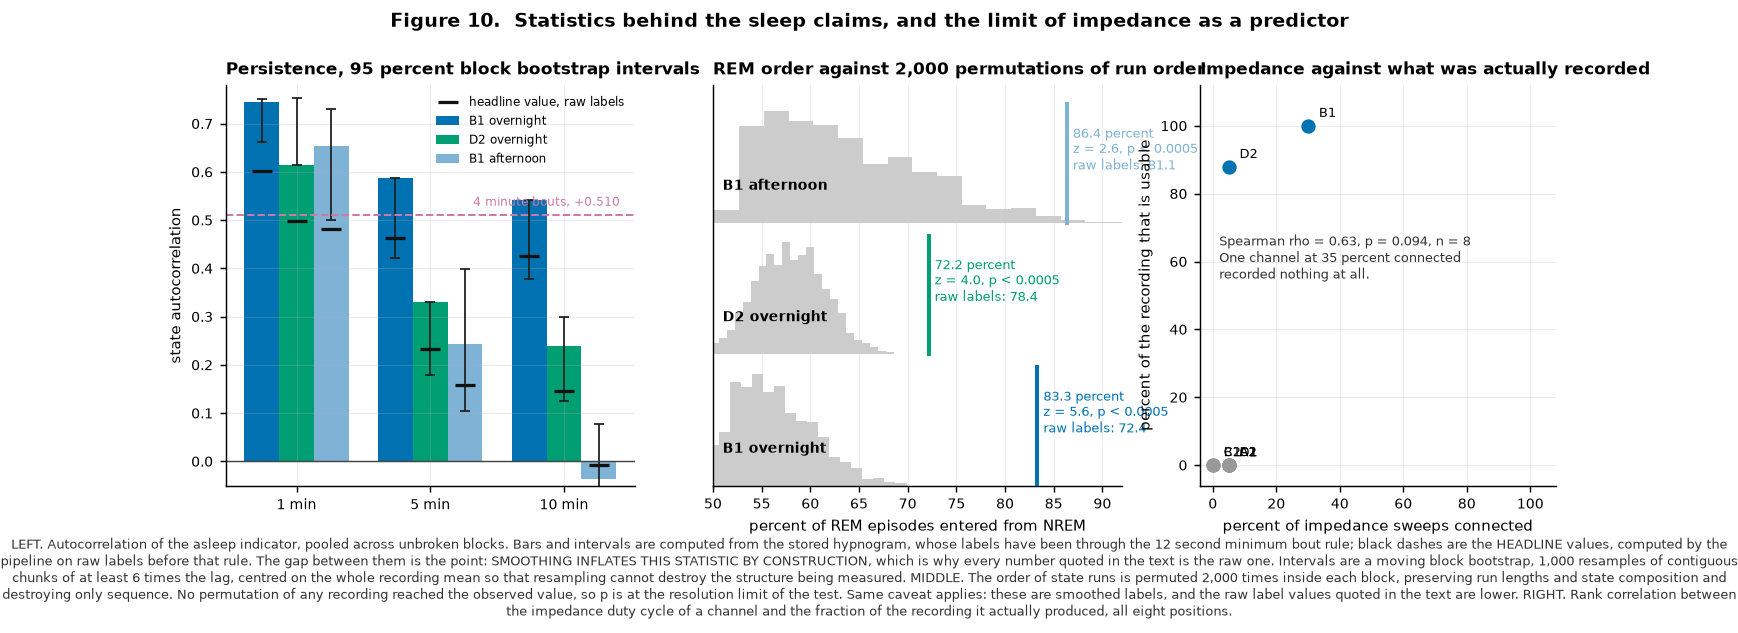
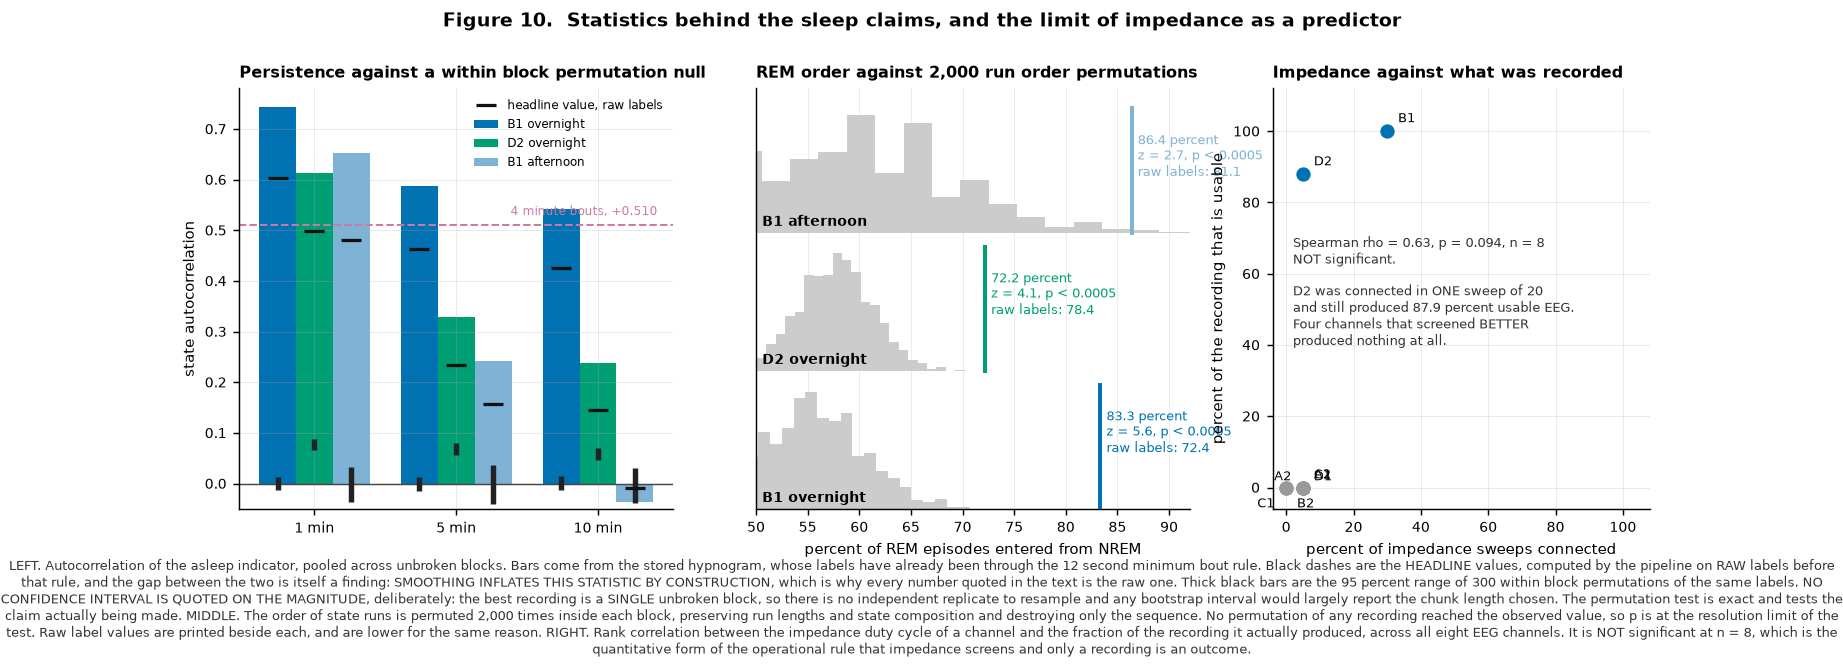
auto backup: 2026-08-09 00:23:22
Affected files:
05-experiments/attachments/2026-08-08-fig10-sleep-statistics.png
05-experiments/attachments/2026-08-08-fig2-fleet-outcome.png
05-experiments/attachments/2026-08-08-fig9-hardware-statistics.png
05-experiments/completed/2026-08-08-full-update-for-professor.md
05-experiments/completed/2026-08-08-professor-update-short.md
_INDEX.md

diff --git a/_INDEX.md b/_INDEX.md
@@ -133,7 +133,7 @@ Production IPs, usernames, paths, and settings.
 - ⭐⭐⭐ [[07-decisions/2026-08-07-rig-specification-and-analysis-method|2026-08-07 — THE RIG SPECIFICATION AND THE ANALYSIS METHOD]] — **THE PAGE TO ARGUE FROM.** Established claims with evidence-strength ratings, how the rig should be built, how the data must be analysed, what may not be claimed. ⚠ **Carries a SCOPE BANNER: the cohort was replaced the same evening**, so the channel map (§2.2) and floor-control list (§3.1) are cohort-specific and already updated for the ECG cohort. The principles in Parts 1 and 3 are unaffected.
 - ⭐⭐⭐ [[05-experiments/active/2026-08-07-staging-preregistration|2026-08-07 — THREE SCOREABLE RECORDINGS, AND THE CIRCADIAN CHECK PASSED]] — **B1 23.66 h in ONE block, r@1min 0.603; D2 23.28 h, r@1min 0.499; both 5/5 physiology, REM-from-NREM 73.9% and 79.5%.** ⭐ **Asleep in the light phase: D2 70.3%, B1 82.1%, against a literature ~70%** — external validation, since nothing in the pipeline knows the clock. 🔴 The pre-registered acclimatisation confound **did not materialise** (B1 slept MORE, not less), recorded rather than dropped.
 - ⭐⭐⭐ [[05-experiments/completed/2026-08-07-overnight-recording-two-animals-work|2026-08-07 — TWO ANIMALS WORK NOW, AND THE TETHER IS THE FIX]] — **START HERE, newest.** 23.66 h, a full light/dark cycle: **B1 99.6% usable with an unbroken 3.6 h block, D2 86.5%**. 🔴 **RETRACTS the 2026-08-06 "arm C harmed D2"** — the swap took D2's EEG from **0.0% to 87.9%** usable, hum 917 → 133 µV, slope −0.38 → **−2.05**. The 40-sweep block had caught one long open state. ⭐ **D2 was tethered at day 8, so LONG RECOVERY IS NOT REQUIRED — the tether chain is sufficient**, and the cohort is recoverable **without new surgery**. 🔑 **Impedance blocks SCREEN; only a multi-hour recording is an OUTCOME** — always state a block's duration.
-- 📄⭐⭐⭐ [[05-experiments/completed/2026-08-08-professor-update-short|2026-08-08 — EEG RIG UPDATE, THE TWO PAGE HANDOUT]] — **THIS IS THE ONE TO SEND.** Crucial points only, **8 figures**: impedance trajectories of all 8 positions · fleet outcome · **real signal traces raw vs cleaned vs auto scaled, with the processing written on the figure** · spectra + the hum/slope discriminator · hypnograms across a full light/dark cycle · persistence + REM order nulls · **the Otsu ±25% sweep that breaks the circadian claim** · scoreable hours before/after the tether change. Figures in `05-experiments/attachments/2026-08-08-fig*.png`, rebuilt by `eeg-emg-analysis/qc/figures_2026-08-08/`.
+- 📄⭐⭐⭐ [[05-experiments/completed/2026-08-08-professor-update-short|2026-08-08 — EEG RIG UPDATE, THE TWO PAGE HANDOUT]] — **THIS IS THE ONE TO SEND.** Crucial points only, **10 figures**: impedance trajectories of all 8 positions · fleet outcome · **real signal traces raw vs cleaned vs auto scaled, with the processing written on the figure** · spectra + the hum/slope discriminator · hypnograms across a full light/dark cycle · persistence + REM order nulls · **the Otsu ±25% sweep that breaks the circadian claim** · scoreable hours before/after the tether change · **fig 9 = the STATISTICS behind the hardware claims** (every channel vs 2,240 wire-free readings, Fisher exact + Jeffreys CIs; only 4 of 16 beat an unconnected input) · **fig 10 = the statistics behind the sleep claims** (permutation nulls, and **Spearman impedance vs yield rho 0.63 p 0.094, NOT significant at n=8**). Figures in `05-experiments/attachments/2026-08-08-fig*.png`, rebuilt by `eeg-emg-analysis/qc/figures_2026-08-08/`.
 - 📄 [[05-experiments/completed/2026-08-08-full-update-for-professor|2026-08-08 — THE TEST MICE, START TO FINISH: THE LONG WORKING RECORD]] — **the appendix behind the handout, not for sending.** Part 0 is paste-ready with no dashes. Part 1 is the whole narrative in the order we learned it (mains hum → the retracted clipping artefact → the no-wire control → **the channel map was wrong all along** → the persistence bug → movement-dependent contact → the 22% false-positive pass mark → **filtering manufactures 69 µV of fake EEG** → the retracted "arm C harmed D2" → the 23.66 h recording that worked). Part 2 is the analysis, the council review, and the **±25% Otsu sweep that damaged the circadian claim**. **Part 1b follows B1 and D2 INDIVIDUALLY, sweep by sweep, from their first connection on 30 July** — including the fact that **B1 is two different animals** (the original was sacrificed 5 Aug, detached skull electrode) and D2's full 0.660 → 9.200 → recovered → 87.9% arc. **Parts 1c and 1d cover the OTHER SIX POSITIONS and what their degradations imply** — the full 5-sweep impedance history of all 8 animals, **C1's collapse from the project's only real sleep recording (8.73 h, r 0.744) to 0.0% usable**, C2's chewed tether read off the data, **A1's textbook 0.087 MΩ muscle channel that still gives 5% usable data because 296 of its 331 µV is mains**, and D1/B2's shared-path correlations of 0.74 and 0.50. 🔑 **No animal shows a monotonic decline ⇒ not failing implants.** Part 3 is **claims defended / withdrawn / refused**. Part 4 is the two open items. ⚠ Scope: the OLD EEG+EMG cohort only, and it is the complete dataset — those animals were replaced 7 Aug.
 - 📄 [[05-experiments/completed/2026-08-06-rig-status-for-professor|2026-08-06/07 — RIG STATUS FOR THE PROFESSOR]] — **the handout.** Part 0 is a paste-ready short version; the rest is capacity vs yield, the method and why it changed, figures, statistics, interpretation, and what is still open.
 - ⭐⭐⭐ [[05-experiments/completed/2026-08-06-fleet-duty-cycle-census|2026-08-06 — WE FINALLY GOT A NEGATIVE CONTROL, AND OUR PASS MARK WAS TOO GENEROUS]] — **START HERE, newest.** The A2 position holds a **cut cable with no mouse**; it passed the 2 MΩ test **22%** of the time, and so do 2,240 readings from **wire-free amplifier inputs** (`/3`-`/16`, `/35`-`/48`). Pass mark moved to **0.5 MΩ** (floor 3.1%). Re-scored, **only 4 of 14 channels beat an empty cable ⇒ the rig records 1 animal of 8.** ⭐ A mouse given **16 days of recovery** before tethering scored **40/40 with zero flips**, but it also got a new soldered tether, so **two variables changed at once**. ✅ Duty cycle **reproduces across days** (D2 27.5% → 30%).

diff --git a/05-experiments/completed/2026-08-08-professor-update-short.md b/05-experiments/completed/2026-08-08-professor-update-short.md
@@ -42,6 +42,10 @@ Six of eight positions fail, and they fail on the EEG channel, which is the chan
 
 ![[2026-08-08-fig2-fleet-outcome.png]]
 
+Tested formally: each channel was measured 20 times and compared against 2,240 readings from amplifier inputs with no wire attached, taken in the same sweeps. **Only four of sixteen channels beat an unconnected input, and three of those four are muscle channels**, so exactly one animal had a usable EEG that day.
+
+![[2026-08-08-fig9-hardware-statistics.png]]
+
 The six failures are not six independent stories. One is a confirmed chewed tether, visible in the data as a channel quieter than a bare wire yet carrying nothing. Two show a correlation of 0.74 and 0.50 between their own two channels, where working animals sit at 0.07, which means one fault upstream of both channels rather than two coincidental electrode failures. Two have a working electrode on one channel and a floating one on the other through the same cable. One holds no animal at all and now serves as a permanent negative control. **Five of six point at the tether chain.**
 
 One animal deserves separate mention. It carried the best electrode in the fleet on 31 July, survived deliberate provocation of every joint in its cable, and produced 8.73 hours of sleep in one unbroken block, which was the only real sleep data the project held until August. Its EEG was electrically open two days later and never recorded again, even though the impedance returned to a good value on 4 August.
@@ -57,6 +61,12 @@ Both animals are strongly awake in the dark phase and asleep in the light phase,
 Two checks are capable of failing and both pass. State persists over minutes far above both a shuffled control and a synthetic bout calibration, and REM episodes are entered from non REM far more often than a permutation of the same state runs allows, by 5 to 12 standard deviations.
 
 ![[2026-08-08-fig6-validity.png]]
+
+Both are tested against permutation nulls rather than quoted as bare numbers. No permutation of any recording reached the observed REM ordering in 2,000 attempts, and the persistence values sit far outside the range produced by shuffling the same labels within their own blocks. The same figure carries two deliberate admissions: **no confidence interval is placed on the persistence magnitude**, because the best recording is a single unbroken block and there is no independent replicate to resample, and **the smoothed values plotted sit above the raw label values quoted in the text**, because the 12 second minimum bout rule inflates this statistic by construction.
+
+![[2026-08-08-fig10-sleep-statistics.png]]
+
+The right hand panel of that figure is the quantitative form of the operational rule. Across all eight EEG channels the rank correlation between impedance and what was actually recorded is **not significant at n equal to 8**. One animal was connected in a single sweep out of twenty and still produced 87.9 percent usable EEG, while four channels that screened better produced nothing.
 
 ## What cannot be claimed
 
@@ -81,4 +91,4 @@ One counterweight belongs here rather than in a footnote. The animal that held t
 
 ## Notes on reading the figures
 
-Figures are rebuilt from the raw files by the scripts in `eeg-emg-analysis/qc/figures_2026-08-08/`, run with `~/eeg-analysis-venv/bin/python`. All measurements come from one 23.66 hour recording of 6 to 7 August unless stated otherwise. Processing is written on each figure. Traces are plotted on fixed vertical scales, because auto scaling makes every channel look like signal, and the windows shown were selected automatically as the window closest to the median amplitude of that channel, so no panel is a lucky or an unlucky moment. Position labels such as B1 and D2 identify rig positions, not individual animals. The animal in the B1 position changed on 6 August, because the original was sacrificed on 5 August after its skull electrode detached.
+Tests used: Fisher exact with Jeffreys intervals for anything counted in sweeps or epochs, permutation nulls for the sleep statistics, and Spearman rank correlation for impedance against yield. Where a statistic could not be given an honest interval, none is given and the reason is written on the figure. Figures are rebuilt from the raw files by the scripts in `eeg-emg-analysis/qc/figures_2026-08-08/`, run with `~/eeg-analysis-venv/bin/python`. All measurements come from one 23.66 hour recording of 6 to 7 August unless stated otherwise. Processing is written on each figure. Traces are plotted on fixed vertical scales, because auto scaling makes every channel look like signal, and the windows shown were selected automatically as the window closest to the median amplitude of that channel, so no panel is a lucky or an unlucky moment. Position labels such as B1 and D2 identify rig positions, not individual animals. The animal in the B1 position changed on 6 August, because the original was sacrificed on 5 August after its skull electrode detached.

diff --git a/05-experiments/completed/2026-08-08-full-update-for-professor.md b/05-experiments/completed/2026-08-08-full-update-for-professor.md
@@ -447,6 +447,18 @@ This is the part I would want you to take away from the fleet history, separatel
 
 The pipeline takes the raw file, gates out unusable epochs, scores each 4 second epoch as wake, non REM or REM, and then produces architecture, bout statistics and light versus dark breakdowns. Every threshold in it was re-derived from our own data, 1,137,955 epochs of it.
 
+## 2.0 Where the statistics live
+
+Point estimates alone are not the case. The tests behind each claim are in two figures.
+
+**Hardware claims, `05-experiments/attachments/2026-08-08-fig9-hardware-statistics.png`.** Every channel's connected duty cycle against 2,240 readings from amplifier inputs with no wire, Fisher exact one sided, Jeffreys 95 percent intervals. **Four of sixteen channels beat an unconnected input and three of those four are muscle channels.** The tether comparison is on the same figure, Fisher exact, with the concurrent control animal plotted alongside so drift can be ruled out by eye.
+
+**Sleep claims, `05-experiments/attachments/2026-08-08-fig10-sleep-statistics.png`.** Persistence against a within block permutation null, REM ordering against 2,000 run order permutations, and the rank correlation between impedance and actual yield.
+
+⚠ **Two things that figure admits rather than hides.** First, **no confidence interval is placed on the persistence magnitude.** The best recording is a single unbroken block, so there is no independent replicate to resample, and a block bootstrap interval would mostly report the chunk length chosen rather than anything about the animal. A block bootstrap was built, produced intervals that did not bracket their own point estimate, and was discarded rather than tuned until it looked right. The permutation test shown instead is exact and tests the claim actually being made. Second, the values plotted come from the stored hypnogram, whose labels have been through the 12 second minimum bout rule, so they sit **above** the raw label values quoted throughout this document. That gap is the smoothing inflation described in §2.4, drawn rather than asserted.
+
+⭐ **The rank correlation is the useful negative result.** Across all eight EEG channels, impedance duty cycle against usable fraction gives Spearman rho 0.63 at p equal to 0.094, **not significant at n equal to 8**. D2 was connected in one sweep out of twenty and produced 87.9 percent usable EEG; four channels that screened better produced nothing. That is the operational rule stated as a number.
+
 ## 2.1 The three scoreable recordings
 
 | | B1 overnight | D2 overnight | B1 afternoon |
